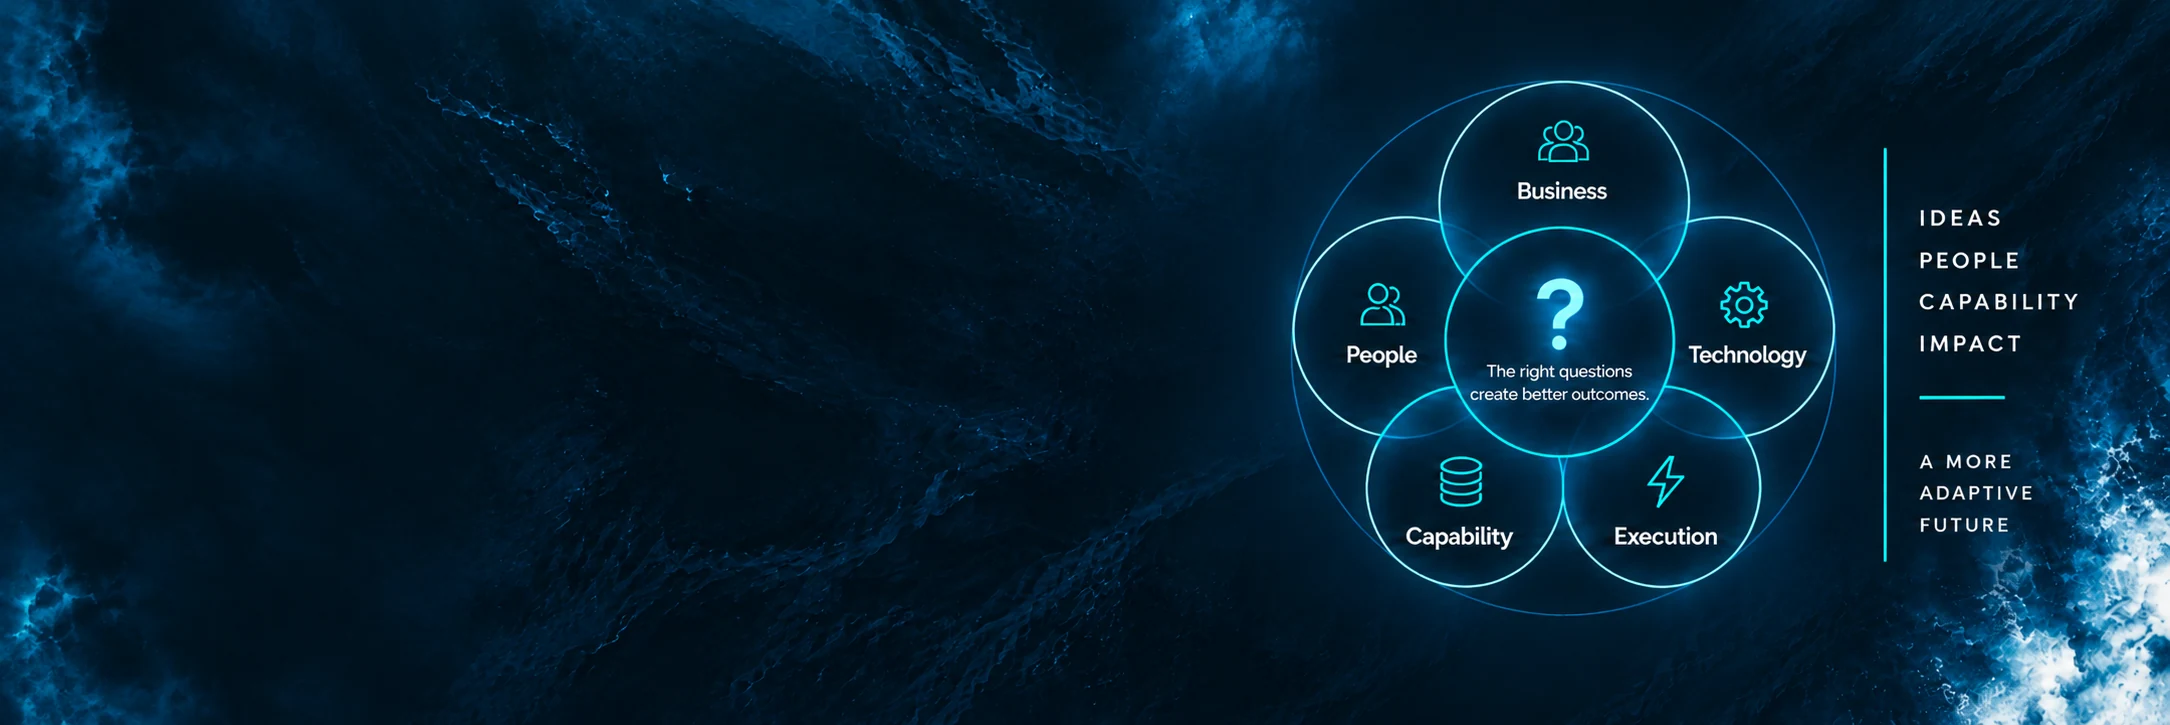
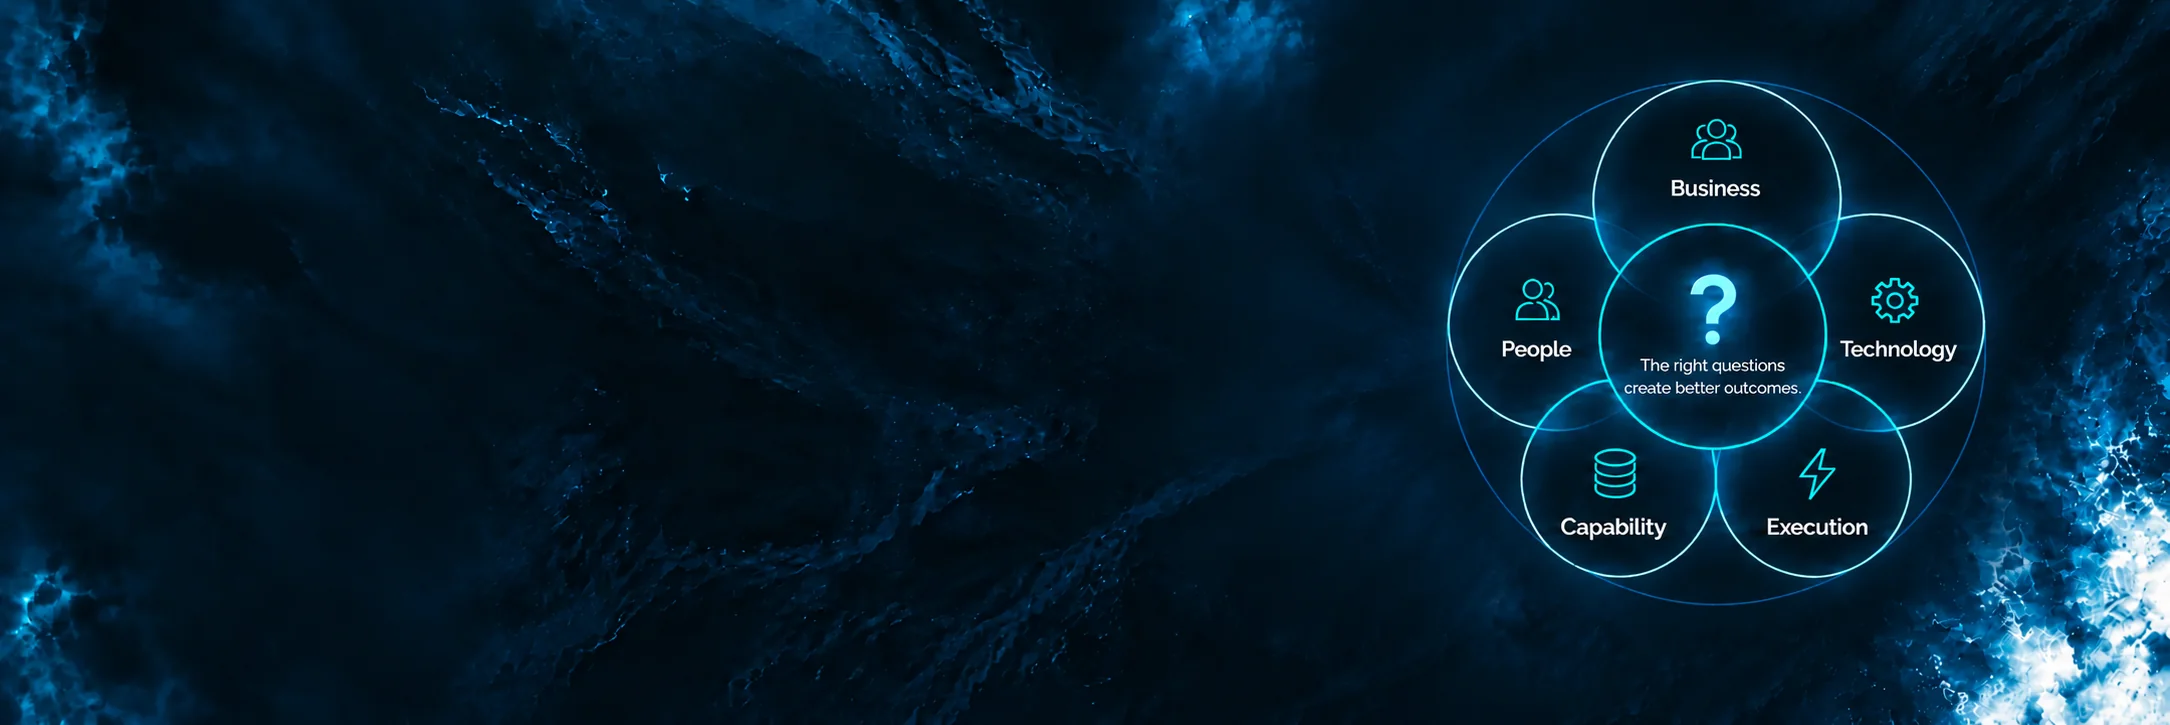
new ui changes

diff --git a/frontend/components/sections/aboutUs/About.jsx b/frontend/components/sections/aboutUs/About.jsx
@@ -12,17 +12,17 @@ import Lenis from "lenis";
 import React, { useEffect, useRef, useState } from "react";
 import { usePageReady } from "../../transitions/PageTransitionContext";
 import AboutUsSecondSectionBanner from "./images/AboutUsSecondSectionBanner.webp";
-import PillarBuildImg from "./images/Create capability.png";
-import PillarThinkImg from "./images/Create clarity.png";
-import PillarDeliverImg from "./images/Create impact.png";
+import PillarBuildImg from "./images/Create capability.webp";
+import PillarThinkImg from "./images/Create clarity.webp";
+import PillarDeliverImg from "./images/Create impact.webp";
 import ExecutiveThinkingLeftImg from "./images/executive_thinking_left.webp";
 import GlobeCurvedRightImg from "./images/globe_curved_right.webp";
 import HeroBgSectionUnknown from "./images/HeroBgSectionUnknown.webp";
-import HeroBannerBg from "./images/NewHeroBanner.png";
+import HeroBannerBg from "./images/NewHeroBanner.webp";
 import NewHeroBannerMobile from "./images/NewHeroBanner_mobile.webp";
 import Section4MountainPeak from "./images/section4_mountain_summit.webp";
-import Section5FullBg from "./images/SectionFiveBg.png";
-import Section5FullBgTab from "./images/SectionFiveBgTab.png";
+import Section5FullBg from "./images/SectionFiveBg.webp";
+import Section5FullBgTab from "./images/SectionFiveBgTab.webp";
 import TheFounderSectionBg from "./images/TheFounderSectionBg.webp";
 import TheFounderSectionBgMobile from "./images/TheFounderSectionBg_mobile.webp";
 import TheFounderSectionBgTablet from "./images/TheFounderSectionBg_tablet.webp";
@@ -573,7 +573,7 @@ export default function AboutUs() {
               }}
             />
             {/* Tablet (md–xl) */}
-            <div  
+            <div
               className="absolute inset-0 hidden md:block xl:hidden"
               style={{
                 backgroundImage: `url(${HeroBannerBg})`,
@@ -1281,7 +1281,8 @@ export default function AboutUs() {
                   Ravishankar Pingali
                 </h2>
                 <h3 className="text-xs sm:text-sm xl:text-base font-bold text-[#00C4FF] mt-1.5 sm:mt-2">
-                  GCC & Technology Leader | Transformation Advisor | Board Advisor
+                  GCC & Technology Leader | Transformation Advisor | Board
+                  Advisor
                 </h3>
                 <p className="text-xs sm:text-sm text-slate-200 mt-1.5 sm:mt-2 font-normal leading-relaxed">
                   Building adaptive enterprises by connecting strategy,
@@ -1351,7 +1352,7 @@ export default function AboutUs() {
                 // label: "experience across enterprise environments",
               },
               {
-               icon: <IconFounderBullseye />,
+                icon: <IconFounderBullseye />,
                 stat: "30% Leadrship Pipline Strengthened",
                 statClass: "text-white",
                 // label: "perspective",
